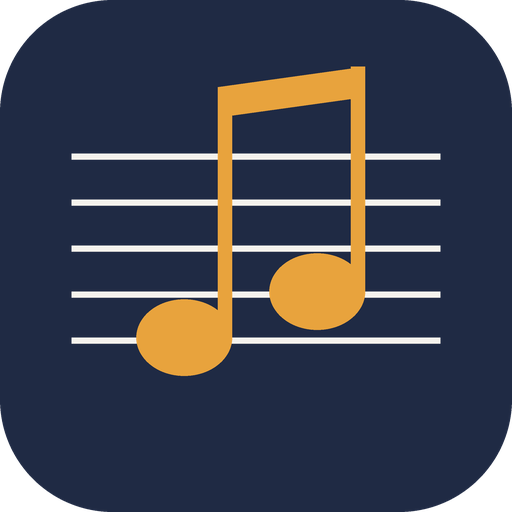
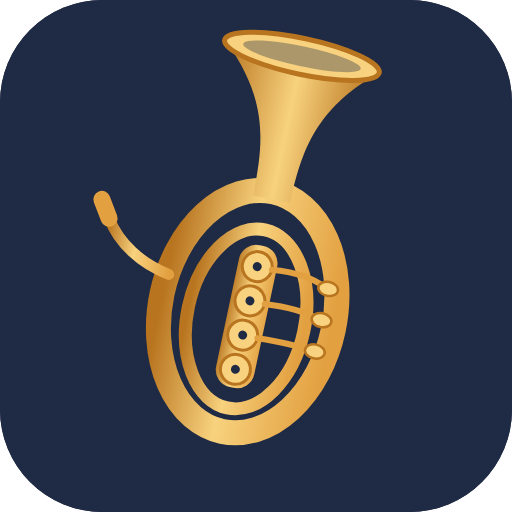
1.24.0: neues App-Symbol (ovales Tenorhorn)
Claude-Session: https://claude.ai/code/session_017sLNUEUiC8rda1Fif93cfr

diff --git a/sw.js b/sw.js
@@ -1,6 +1,6 @@
 // Offline-Unterstützung: App-Dateien werden zwischengespeichert.
 // Bei einer neuen Version CACHE hochzählen.
-const CACHE = 'notenreader-v43';
+const CACHE = 'notenreader-v44';
 const ASSETS = [
   './', './index.html', './styles.css', './app.js', './db.js', './forscore.js', './scan.js', './practice.js', './player.js', './ueben.js', './applemusic.js', './musickit-token.js', './manifest.webmanifest',
   './vendor/pdf.min.mjs', './vendor/pdf.worker.min.mjs', './vendor/Bravura.woff2', './vendor/wach.mp4',

diff --git a/app.js b/app.js
@@ -6,7 +6,7 @@ import { initPractice } from './practice.js';
 
 pdfjsLib.GlobalWorkerOptions.workerSrc = new URL('./vendor/pdf.worker.min.mjs', import.meta.url).href;
 
-const APP_VERSION = '1.23.4';
+const APP_VERSION = '1.24.0';
 
 /* ---------- Hilfsfunktionen ---------- */
 const $ = (sel, root = document) => root.querySelector(sel);
